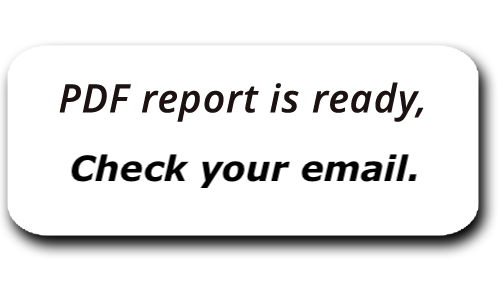
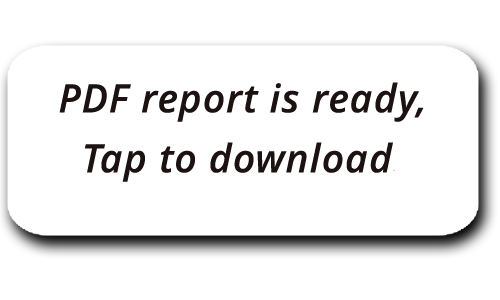
update delivery method

Changed region(s): [[0.12, 0.48, 0.84, 0.63]]

diff --git a/index.html b/index.html
@@ -2186,7 +2186,7 @@ var reportFile="";
 function pdfToServer(doc, calling){
   window.setTimeout("checkInternet()", 1000);
   reportName=calling;
-  reportFile="https://whatsmydestiny.com/destinyapp/whatsmydestiny/reports/" +reportName+"_"+btoa(reportName)+ ".pdf"
+  reportFile="https://whatsmydestiny.com/destinyapp/reports/" +reportName+"_"+btoa(reportName)+ ".pdf"
 
   //console.log('pdfToServer '+calling+ ' '+reportFile);
   var pdf=doc.output();
@@ -2241,13 +2241,13 @@ function saveChunk(){
   var data = new FormData();
   data.append("chunkNum", chunkNum);
   data.append("reportName", reportName);
-  data.append("emailto", valueOfId('emailInput'));
-  data.append("emailtoname", valueOfId('firstNameInput')+" "+valueOfId('lastNameInput'));
+  //data.append("emailto", valueOfId('emailInput'));
+  //data.append("emailtoname", valueOfId('firstNameInput')+" "+valueOfId('lastNameInput'));
   data.append("pdfData", aChunk);
 
   var xhr = new XMLHttpRequest();
   xhr.onload = ajaxSuccess;
-  xhr.open( 'post', 'https://www.whatsmydestiny.com/destinyapp/uploadmaildeletepdf.php', true );
+  xhr.open( 'post', 'https://www.whatsmydestiny.com/destinyapp/uploadpdf.php', true );
   xhr.send(data);
   }
 function ajaxSuccess(){
@@ -2271,7 +2271,7 @@ function openPdfFile(){
   //console.log('openPdfFile()');
   document.getElementById('downloadpdf').style.display="none";
   //console.log('openPdfFile() hid');
-  ////resumeOpenPdfFile();2019
+  resumeOpenPdfFile();2019
   }
 function resumeOpenPdfFile(){
   //console.log('resumeOpenPdfFile() ');

diff --git a/tutorial.js b/tutorial.js
@@ -14,7 +14,7 @@ tutorialCode+='<p>4. The Main menu is three stacked lines. Use it to search Cont
 tutorialCode+='</div>';
 tutorialCode+='<div class="col">';
 tutorialCode+='<img class="landscape" src="tutorial5.png" />';
-tutorialCode+='<p>5. Create a Report with the right context menu by tapping Report. The app will show progress uploading and then a check email message. The report is sent to your email. The Summary report has the same process. </p>';
+tutorialCode+='<p>5. Create a Report with the right context menu by tapping Report. The app will show progress uploading and then a tap to download message. The report downloads in a browser window on your device. The Summary report has the same process. </p>';
 tutorialCode+='<img class="landscape" src="tutorial6.png" />';
 tutorialCode+='<p>6. Tap the search icon or select Contacts from the main menu to enter search text to find a contact.  Tap the red search icon to start the search. Tap a name in the results list to view their information. </p>';
 tutorialCode+='<p>&copy;2016 Wes Hamilton</p>';
